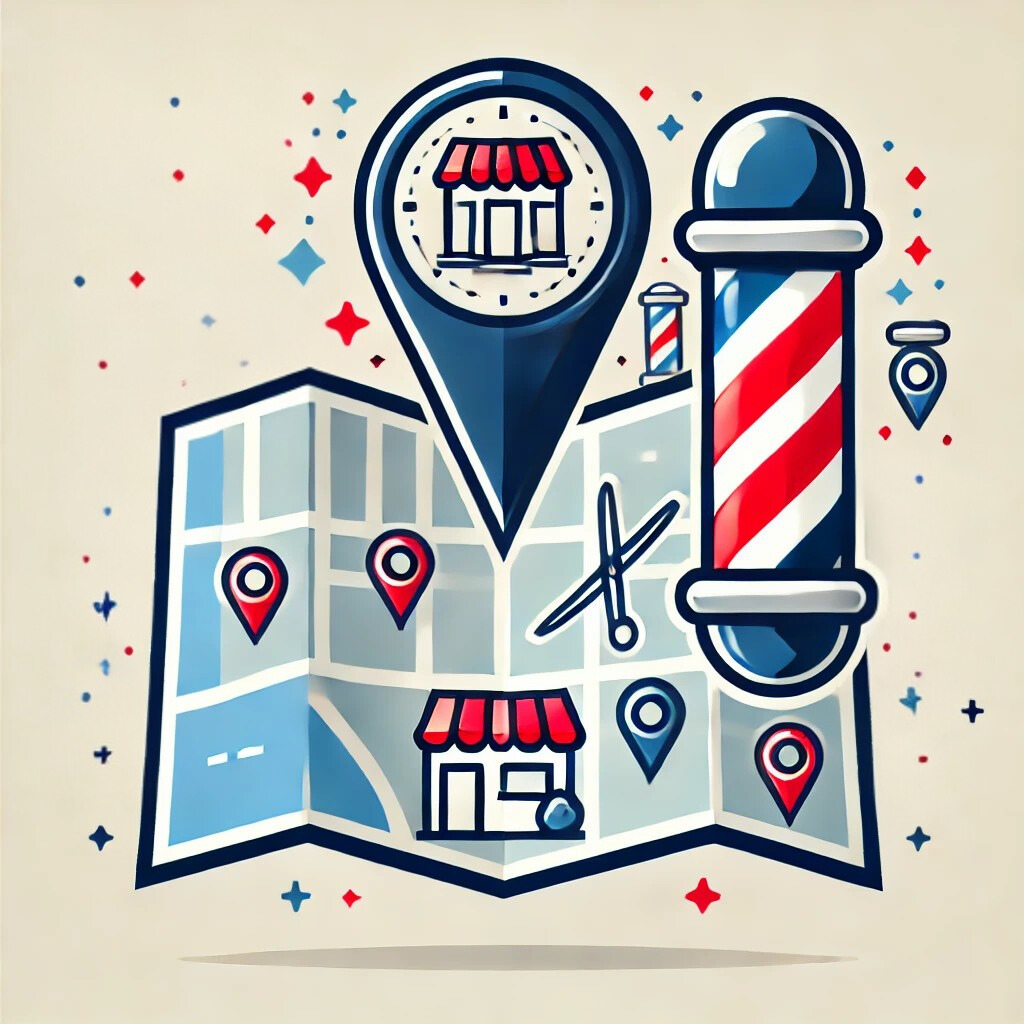
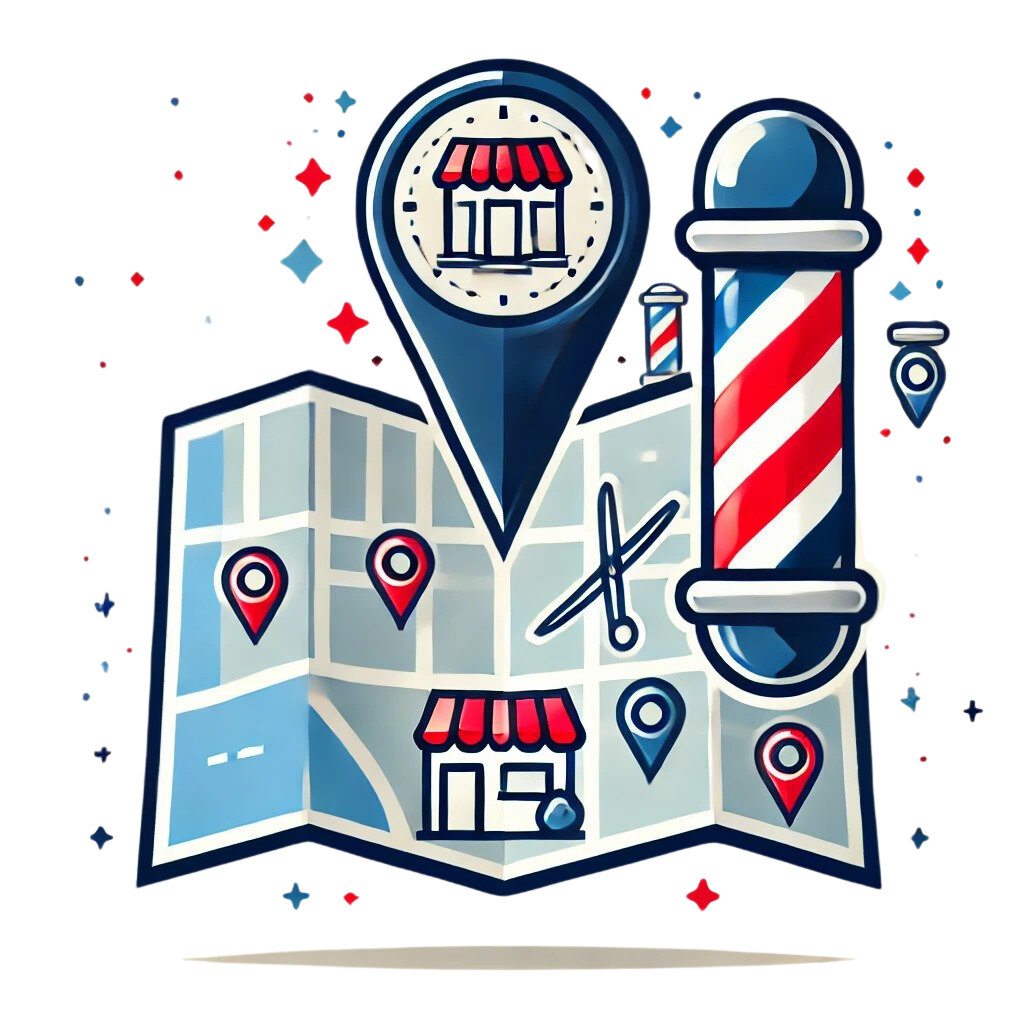
iconos transparentes

diff --git a/index.html b/index.html
@@ -301,7 +301,7 @@
               <div class="icon d-flex justify-content-center align-items-center">
                 <img src="assets/img/wifi.png" alt="Logo" style="width: 80px; height: auto;">
               </div>
-              <h4><a href="" class="stretched-link">Siempre en linea</a></h4>
+              <h4 class="text-center"><a href="" class="stretched-link">Siempre en linea</a></h4>
               <p>Tus clientes podrán reservar hora en cualquier momento</p>
             </div>
           </div><!-- End Service Item -->
@@ -311,7 +311,7 @@
               <div class="icon d-flex justify-content-center align-items-center">
                 <img src="assets/img/whatsapp.png" alt="Logo" style="width: 80px; height: auto;">
               </div>
-              <h4><a href="" class="stretched-link">Contacto directo</a></h4>
+              <h4 class="text-center"><a href="" class="stretched-link">Contacto directo</a></h4>
               <p>Envía whataspp o llama a tus clientes desde tu panel de control</p>
             </div>
           </div><!-- End Service Item -->
@@ -321,7 +321,7 @@
               <div class="icon d-flex justify-content-center align-items-center">
                 <img src="assets/img/calen.png" alt="Logo" style="width: 80px; height: auto;">
               </div>
-              <h4><a href="" class="stretched-link">Agenda</a></h4>
+              <h4 class="text-center"><a href="" class="stretched-link">Agenda</a></h4>
               <p>Automatiza y consulta tu agenda desde cualquier lugar</p>
             </div>
           </div><!-- End Service Item -->
@@ -329,9 +329,9 @@
           <div class="col-xl-3 col-md-6 d-flex" data-aos="fade-up" data-aos-delay="400">
             <div class="service-item position-relative">
               <div class="icon d-flex justify-content-center align-items-center">
-                <img src="assets/img/mapa.png" alt="Logo" style="width: 100px; height: auto;"> <!-- Ajusta el tamaño según sea necesario -->
+                <img src="assets/img/mapa.png" alt="Logo" style="width: 70px; height: auto;"> <!-- Ajusta el tamaño según sea necesario -->
               </div>
-              <h4><a href="" class="stretched-link">Google</a></h4>
+              <h4 class="text-center"><a href="" class="stretched-link">Google</a></h4>
               <p>Enlace directo desde Google Maps</p>
             </div>
           </div><!-- End Service Item -->
